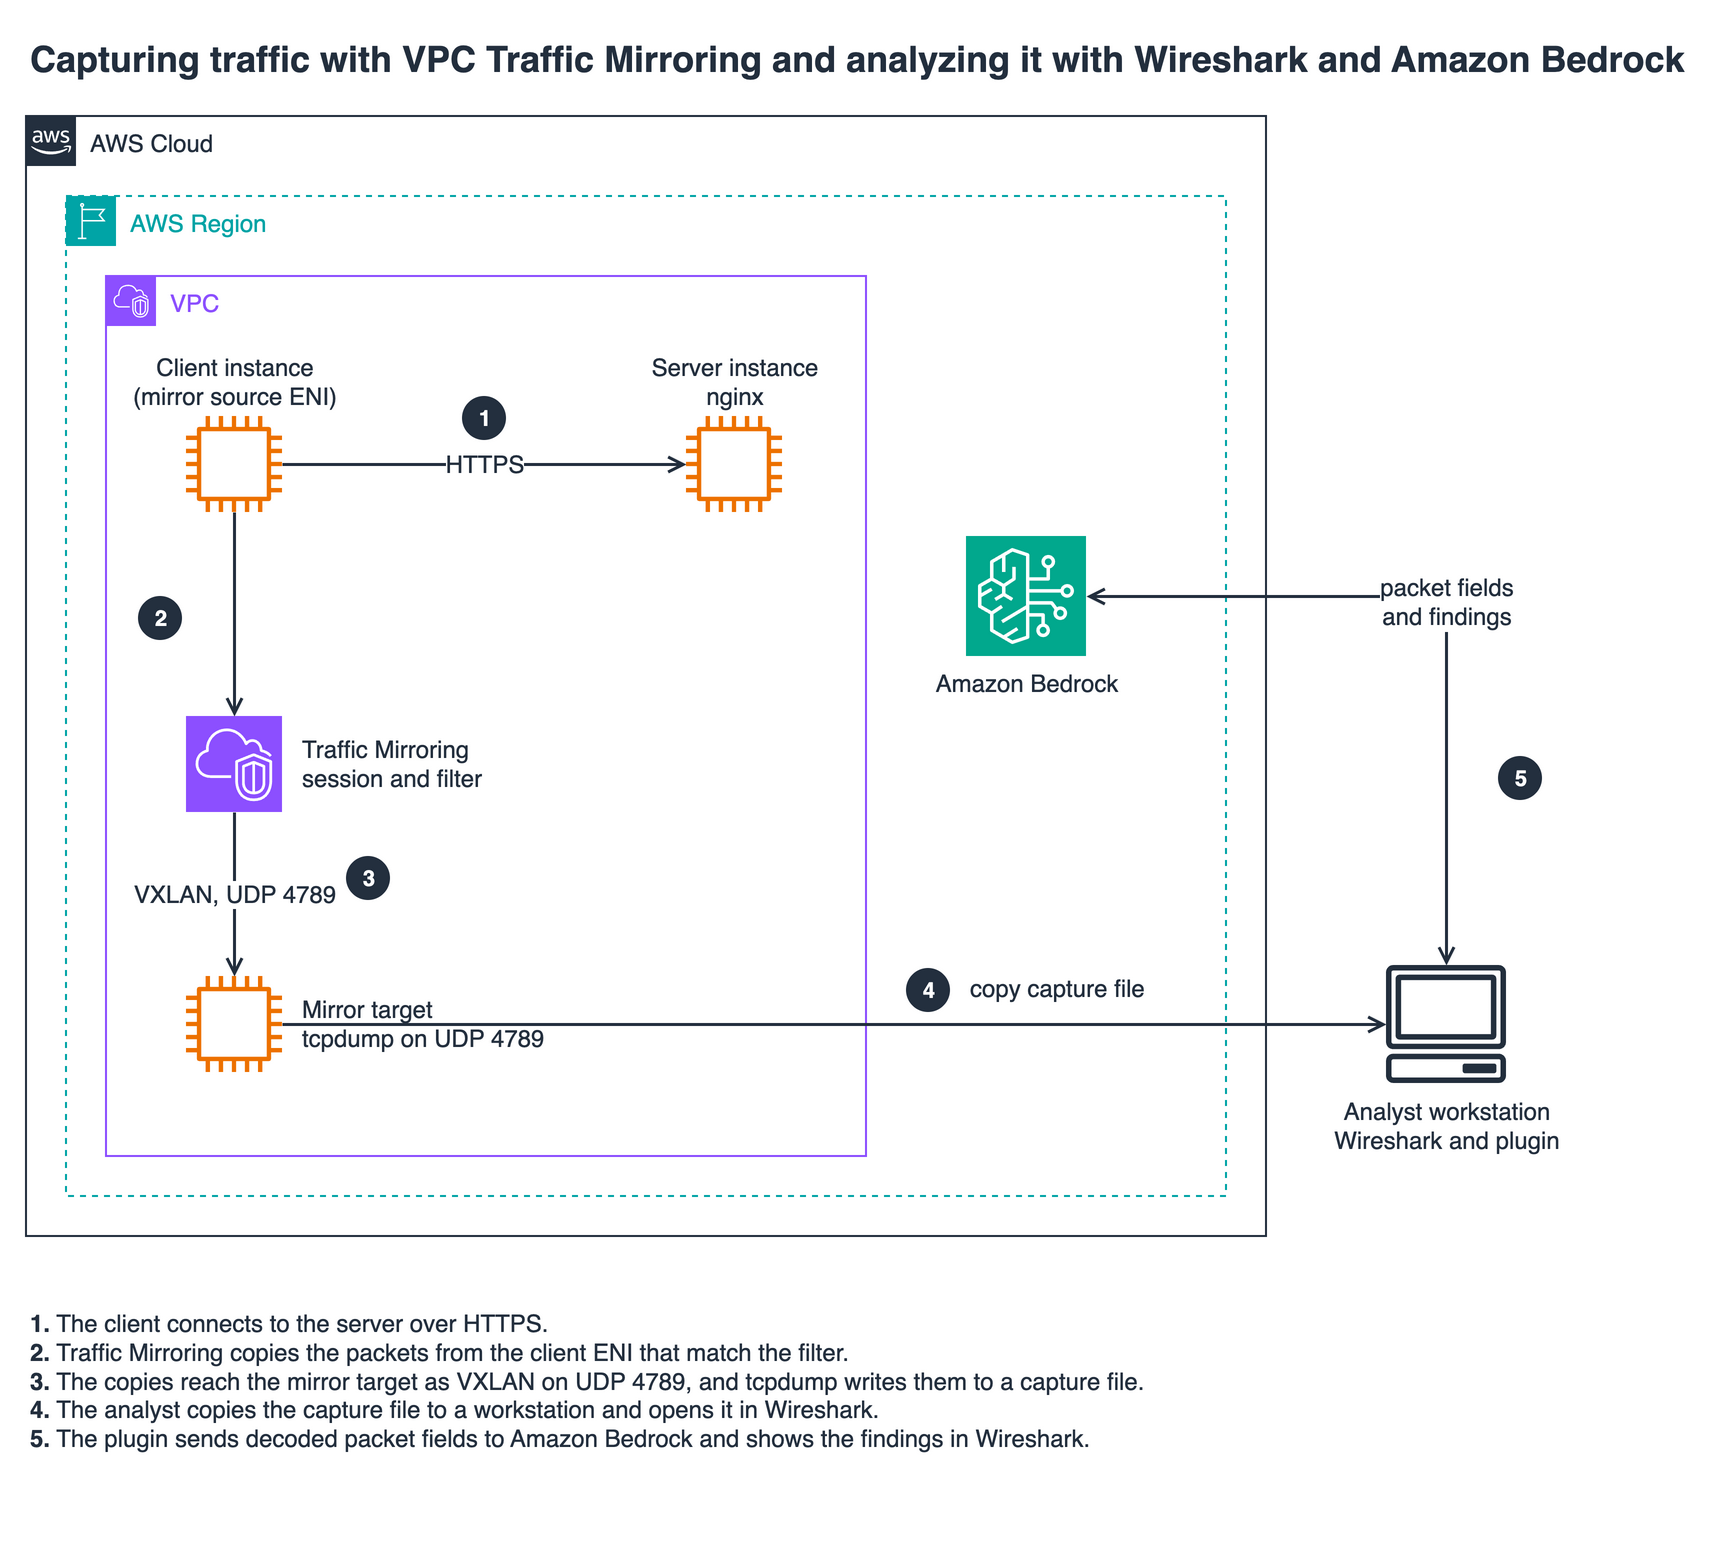
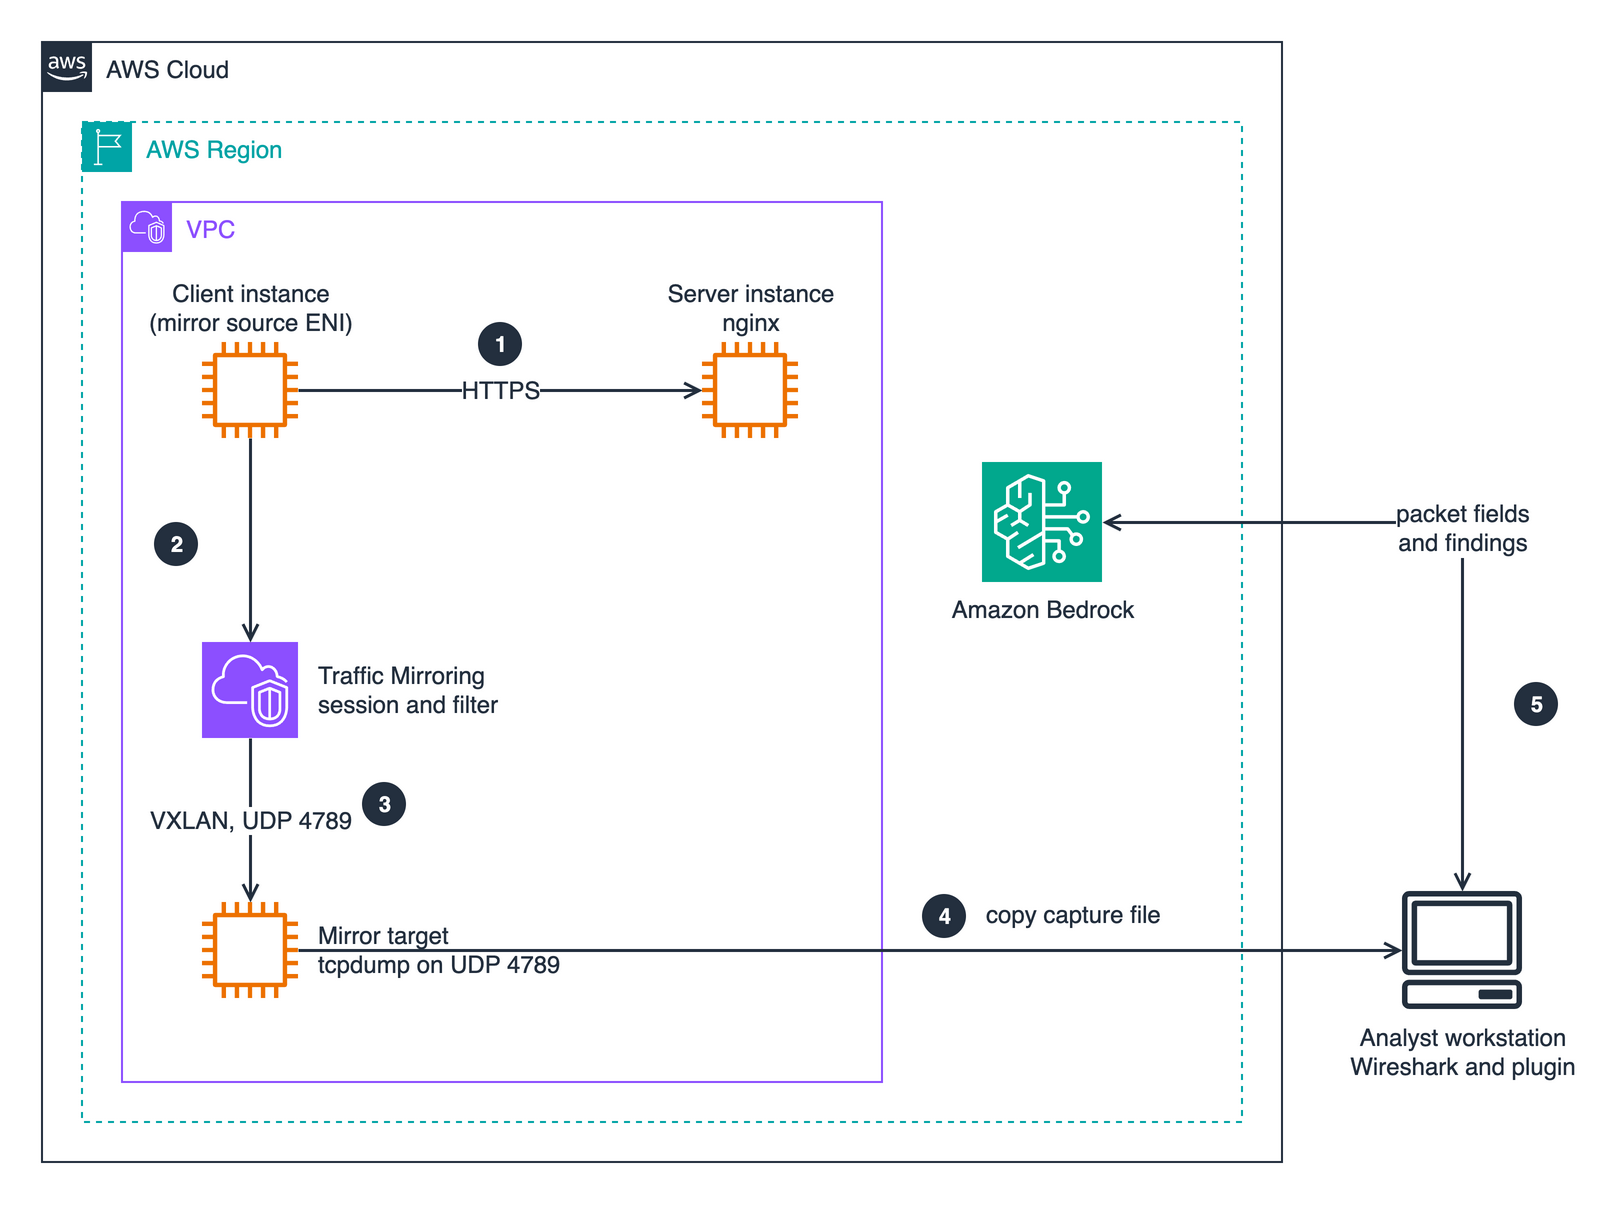
Retitle the sample and simplify the architecture diagram
Title is now Network Troubleshooting with Amazon Bedrock and Wireshark. The
diagram no longer repeats the title and step list, which are in the README.
The model table column is renamed to Model ID.

diff --git a/README.md b/README.md
@@ -1,4 +1,4 @@
-# Network Troubleshooting for Wireshark with Amazon Bedrock
+# Network Troubleshooting with Amazon Bedrock and Wireshark
 
 A Wireshark plugin that sends a summary of captured packets to Amazon Bedrock and
 displays an AI-generated network analysis in a Wireshark window.
@@ -137,7 +137,7 @@ sit in the same directory as `amazon_bedrock.lua`:
   Use the `us.` cross-Region inference profile where one exists; the others are
   on-demand only and use the bare ID.
 
-  | Family | Latest model ID | Request shape |
+  | Family | Model ID | Request shape |
   |---|---|---|
   | Claude 5.5 | `us.anthropic.claude-sonnet-5-5`, `us.anthropic.claude-opus-5-5` | `maxTokens` 64000, `output_config.effort = medium` |
   | OpenAI GPT-6.1 | `us.openai.gpt-6.1-sol`, `us.openai.gpt-6.1-terra` | `maxTokens` 64000, `reasoning.effort = medium` |
